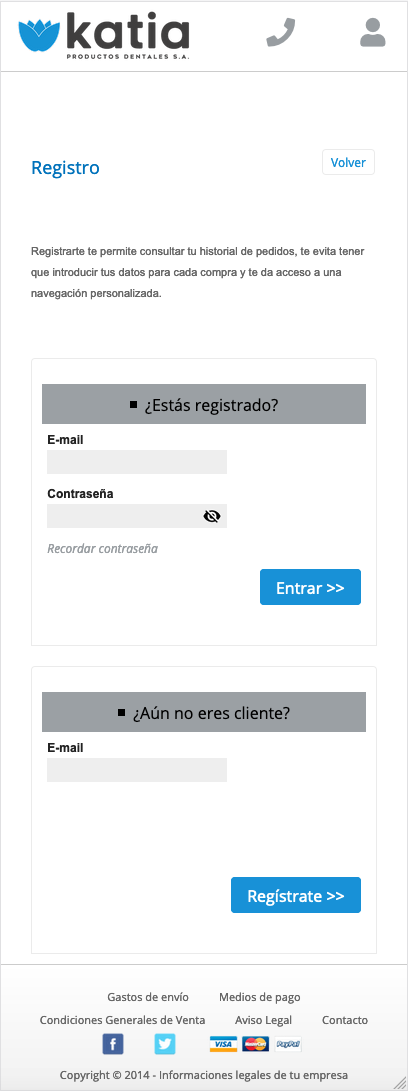
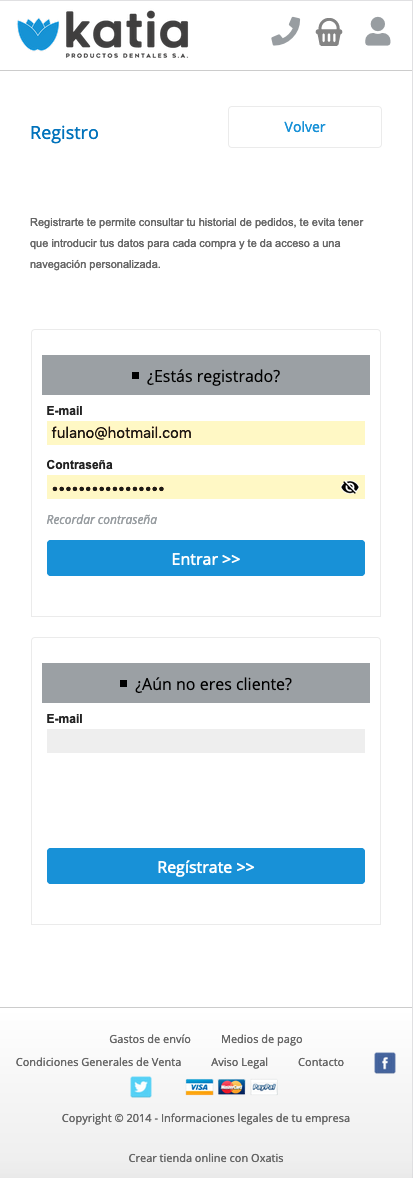
imgupdt

diff --git a/index_01__21.html b/index_01__21.html
@@ -1,0 +1,117 @@
+<!doctype html>
+<html>
+<head>
+<meta http-equiv="Content-Type" content="text/html; charset=utf-8">
+<title>Katia dental imagen corporativa</title>
+
+<style> 
+.shadow {-webkit-box-shadow: -1px 5px 15px 5px rgba(0,0,0,0.15); 
+box-shadow: -1px 5px 15px 5px rgba(0,0,0,0.15);
+
+}
+.texto {color:#ffffff; font-size:5rem; font-style:normal; }
+
+h1 {text-align:center; border-bottom: 1px solid #9EB7CC; border-top: 1px solid #9EB7CC;padding: 20px 0;}
+h1:first-child {margin-top: -0px;}
+img {margin: 0 30px; max-width:100%; height:900px;}
+
+ul {list-style-type:none;}
+
+li {padding-bottom:30px; font-size:1.5rem;}
+
+.wrap {overflow-x:hidden; position: relative; padding: 0 3px;
+}
+.menu, .caracteristicas {display:flex; justify-content: center; padding:1.5rem 0 2rem;}
+.center { align-items: center;}  
+
+
+	
+.title {font-weight: bold;
+    font-size: 2rem;
+    }
+	
+	
+.bullets {width:30%;}
+
+ul li ul li {font-size:1.25rem; margin-bottom:-20px; list-style-type: disc; }
+
+ul li ul {margin-top:20px;}
+
+.divider {height:1px; background:gray; margin:6rem; }
+
+body {background:#F6F6F6;}
+.pie {width:70%; margin:0 auto; font-style:normal; font-size:1.5rem; text-align:center;}
+figcaption {text-align: center;
+    font-size: 1.5rem;
+    
+    padding-top: 30px;}
+	
+@media screen and (max-width: 1190px) {
+.texto {
+    font-size: 5.8rem;
+    line-height: 100%;
+}
+  
+img { margin: 0 0 4rem; min-width: 100%;}
+.menu, .caracteristicas {margin:0 2rem; }
+
+.bullets {width:100%; }
+.pie {margin:none; width:90%; font-size:1.5rem;}
+figcaption {
+    margin: -50px 0 100px; padding:0;}
+}
+</style>
+
+
+</head>
+
+
+<body background="#F6F6F6" leftmargin="0" topmargin="0" marginwidth="0" marginheight="0" style="font-family:Gotham, 'Helvetica Neue', Helvetica, Arial, sans-serif; margin:0 auto;">
+
+<div class="wrap">
+<div style="background:#9EB7CC; padding:3rem 0; text-align:center; ">
+<span class="texto"><strong>Katia Dental</strong><br>
+<span style="font-style:normal; font-size:4rem; ">Arreglos accesibilidad móvil</span>
+
+</div>
+              
+<div style="text-align:center;"><h1>Disposición de artículos</h1></div>
+<div class="menu">
+<figure><img class="shadow" src="https://akidaniel.github.io/katiadental/imagenes/articuloa.png" alt="menu 3"><figcaption>Antigua</figcaption></figure><figure><img class="shadow" src="https://akidaniel.github.io/katiadental/imagenes/articulob.png" alt="menu 4"><figcaption>Adaptada</figcaption></figure>
+</div>  
+
+
+<div style="text-align:center; "><h1>Contacto</h1></div>
+<div class="menu">
+<figure><img class="shadow" src="https://akidaniel.github.io/katiadental/imagenes/contactoa.png" alt="menu 3"><figcaption>Antigua</figcaption></figure><figure><img class="shadow" src="https://akidaniel.github.io/katiadental/imagenes/contactob.png" alt="menu 4"><figcaption>Adaptada</figcaption></figure>
+</div>  
+
+
+<div style="text-align:center; "><h1>Registro</h1></div>
+<div class="menu">
+<figure><img class="shadow" src="https://akidaniel.github.io/katiadental/imagenes/logina.png" alt="menu 3"><figcaption>Antigua</figcaption></figure><figure><img class="shadow" src="https://akidaniel.github.io/katiadental/imagenes/loginb.png" alt="menu 4"><figcaption>Adaptada</figcaption></figure>
+</div> 
+
+<div style="text-align:center; "><h1>Cesta de la compra</h1></div>
+<div class="menu">
+<figure><img class="shadow" src="https://akidaniel.github.io/katiadental/imagenes/cestaa.png" alt="menu 3"><figcaption>Antigua</figcaption></figure><figure><img class="shadow" src="https://akidaniel.github.io/katiadental/imagenes/cestab.png" alt="menu 4"><figcaption>Adaptada</figcaption></figure>
+</div> 
+
+<div style="text-align:center; "><h1>Carrito de compras</h1></div>
+<div class="menu">
+<figure><img class="shadow" src="https://akidaniel.github.io/katiadental/imagenes/carritoa.png" alt="menu 3"><figcaption>Antigua</figcaption></figure><figure><img class="shadow" src="https://akidaniel.github.io/katiadental/imagenes/carritob.png" alt="menu 4"><figcaption>Adaptada</figcaption></figure>
+</div>  
+
+
+<div style="text-align:center; "><h1>Conclusión</h1></div>
+
+<div class="pie">Este documento sirve para mostrar la evolución del logo de Katia donde, más allá de hacer una comparativa de diseños, intento mostrar un seguimiento profesional del mismo. El logo original tiene más de catorce años, por lo que requería una renovación. Dicha renovación tenía dos caminos posibles: evolución del logo existente o ruptura total. En el caso del logo 2020 se optó por la segunda posibilidad. Más allá de la decisión tomada, lo que a mi entender no es muy profesional es no haber consultado las directrices, cambios y usos del diseño original. En mi opiniónr, el logo actual no responde a ningún criterio más allá de un resultado formal pobre y con escasas posibilidades de adaptabilidad. Después de más de dieciseis años trabajando con la empresa, continuo ofreciendo mis servicios para dar una respuesta de calidad profesional a cualquier cambio de imagen. Atentamente, Daniel.</div>
+
+<div class="divider"></div>
+
+
+</div>
+
+
+</body>
+</html>

diff --git a/index.html b/index.html
@@ -75,6 +75,8 @@ img { margin: 0 0 4rem; min-width: 100%;}
 
 </div>
 
+
+
 <div class="caracteristicas">
 <div><img  src="https://akidaniel.github.io/katiadental/imagenes/katialogo_2004.png" alt="Logo 2004"></div>
 
